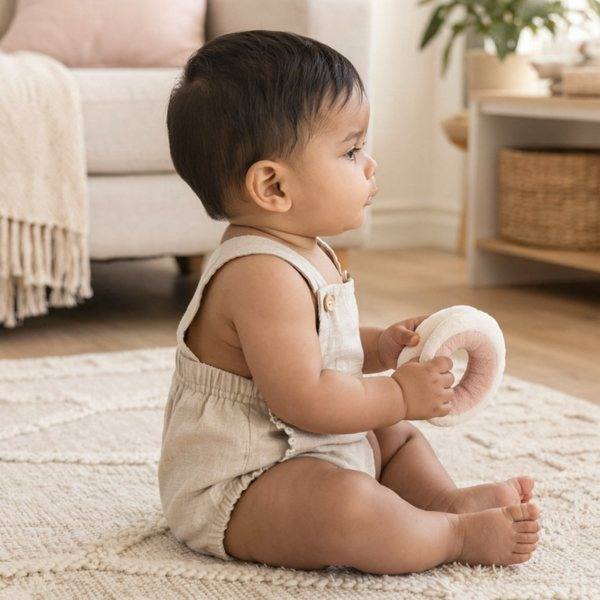
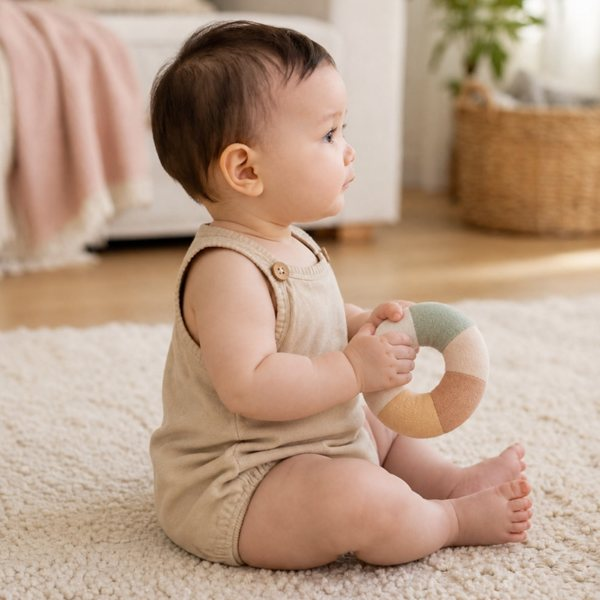
Health: checkups path as a checklist under the top card; Outings CTA names the photo; Get ready lead leads into the steps
Claude-Session: https://claude.ai/code/session_01SSLJSGHvmyaR94FKJG8VcB

diff --git a/js/hub-categories.js b/js/hub-categories.js
@@ -367,12 +367,14 @@
     const HEALTH_ART = "<svg viewBox=\"0 0 300 103\" aria-hidden=\"true\"><ellipse cx=\"146\" cy=\"90\" rx=\"107\" ry=\"7\" fill=\"#d5e5d6\"/><rect x=\"31\" y=\"63\" width=\"229\" height=\"23\" rx=\"11\" fill=\"#bed5c1\"/><circle cx=\"95\" cy=\"45\" r=\"26\" fill=\"#e8b89f\"/><path d=\"M78 40q7-21 29-15\" fill=\"none\" stroke=\"#9d735f\" stroke-width=\"5\" stroke-linecap=\"round\"/><path d=\"M85 48q4 4 8 0m7 0q4 4 8 0\" stroke=\"#916959\" stroke-width=\"2\" fill=\"none\"/><path d=\"M123 65q31-27 74 0l13 13h-92z\" fill=\"#a9c9ae\"/><path d=\"M148 66q24-19 49-26\" fill=\"none\" stroke=\"#e8b89f\" stroke-width=\"11\" stroke-linecap=\"round\"/><circle cx=\"202\" cy=\"40\" r=\"7\" fill=\"#e8b89f\"/><rect x=\"246\" y=\"15\" width=\"19\" height=\"29\" rx=\"4\" fill=\"#fafdf9\" stroke=\"#a0bda5\"/><path d=\"M256 22v15m-7-7h14\" stroke=\"#89b093\" stroke-width=\"3\" stroke-linecap=\"round\"/><path d=\"M277 48h15M285 40v16\" stroke=\"#9ebeaa\" stroke-width=\"2.5\" stroke-linecap=\"round\"/></svg>";
     let b = `<style>#main .hl-art{display:grid;place-items:center;margin:10px 0 2px}#main .hl-art svg{width:100%;max-width:260px;height:auto}#main .hl-worth{border-radius:20px;background:#eef0f7;padding:14px 16px;margin:0 0 14px;color:#3e4766}#main .hl-worth small{display:block;font-size:11px;font-weight:800;letter-spacing:.08em;text-transform:uppercase;color:#5e6890;margin-bottom:5px}#main .hl-worth b{display:block;font-size:16px;line-height:1.3;color:var(--ink,#302d3c)}#main .hl-worth p{margin:5px 0 0;font-size:14px;line-height:1.45;color:#5d6276}</style>`
       + h.hero({ eyebrow: eyebrow2, title, lead: LEAD(age) }).replace(/<\/header>\s*$/, SHOW && window.healthMainPhoto ? `${window.healthMainPhoto(age)}</header>` : `<div class="hl-art">${HEALTH_ART}</div></header>`)
+      // Nov 22 (Yarden's inspiration): the year's checkups sit right under the top card, with no heading.
+      + (SHOW && window.healthTracker ? window.healthTracker(age, focus).replace(/^<h2[^>]*>.*?<\/h2>/, '').replace('h2-track"', 'h2-track is-top"') : '')
       + (WORTH && !done ? `<section class="hl-worth"><small>${F('Worth knowing before you go')}</small><b>${F(WORTH[0])}</b><p>${F(WORTH[1])}</p></section>` : '')
       // Nov 14 (Yarden): parents look for a way to tick a checkup off. One quiet link once it's close or past, never a question.
       + (live() && !done && age <= focus && dueDays <= 3 ? `<div class="hub-browse hl-done-link"><button class="hub-link" onclick="hubVisitYes(${age})">${F('Been to this checkup? Mark it done')} ›</button></div>` : '');
     // "Booked for later? Save the date" is gone (Nov 10): Health moves on by age, so a saved date isn't needed.
     // The banner at the top already has "Back to your next checkup", so it isn't repeated here.
-    if (SHOW && window.healthGlance) b += window.healthGlance(age) + window.healthTracker(age, focus);
+    if (SHOW && window.healthGlance) b += window.healthGlance(age);
     else b += h.list('Your visit, at a glance', [
       h.row({ icon: 'clock', cat: 'Health', title: 'What to expect', sub: EXPECT[age], onclick: `openHealthDetail(${age},'expect')` }),
       `<span id="health-vaccines"></span>` + h.row({ icon: 'shield', cat: 'Health', title: 'Vaccines', sub: age === 0 ? 'Hepatitis B, and protection against RSV, a common winter virus' : ({ 1: 'Second hepatitis B shot (some offices give it at 2 months instead)', 2: 'The first main round: whooping cough, polio and more', 4: 'Second doses of the 2-month shots', 6: 'More doses of the same shots' + ([8, 9, 10, 11, 0, 1, 2].includes(NOW.getMonth()) ? ', plus {p} first flu shot' : ''), 9: 'Usually catch-up only' + ([8, 9, 10, 11, 0, 1, 2].includes(NOW.getMonth()) ? ', plus a flu shot' : ''), 12: 'Measles, mumps and rubella (MMR), chickenpox, hepatitis A and boosters' })[age] || 'What’s due at this checkup', onclick: `openHealthDetail(${age},'vaccines')` }),

diff --git a/js/out-and-about.js b/js/out-and-about.js
@@ -199,7 +199,7 @@
   function outAndAbout() {
     if (SHOW()) return home3();
     const m = ageNow(), v = stageFor(m), h = H(), n = nowFor(m), nx = nextFor(m);
-    const HERO_PH = { 0: 'town', 2: 'road', 4: 'carry-out', 6: 'highchair', 9: 'seat-infant', 12: 'seat-convertible' };
+  const HERO_PH = { 0: 'town', 2: 'road', 4: 'carry-out', 6: 'highchair', 9: 'seat-infant', 12: 'seat-convertible' };
     let b = `<header class="hub-hero oa-hero${SHOW() ? ' has-photo' : ''}">${SHOW() ? `<img class="oa-hero-img" src="${PH(HERO_PH[n[0]])}" alt="">` : ''}<p class="hub-eyebrow">${F(m < 1 ? 'In the first weeks' : `At ${m} ${m === 1 ? 'month' : 'months'}`)}</p><h1>${F(n[1])}</h1><p class="hub-lead">${F(n[2])}</p><button class="cc-hero-go oa-hero-go" onclick="${open(n[3])}">${F(n[4] ? n[4][2] : ({ errands: 'See around town', road: 'Plan a longer trip' })[n[3]] || 'See the guide')} ›</button></header>`;
     b += places(v) + seasonCard() + gear(v);
     b += h.versus('In the car', ['Every time', 'Look in the back seat before you walk away.'], ['Never', 'Leave Maya alone in the car, even for a minute.']);
@@ -477,11 +477,13 @@
   const fig3 = (src, alt, pins) => `<section class="oa-photo-card oa3-fig"><figure class="oa-photo"><img src="${PH(src)}" alt="${F(alt)}" loading="lazy">${pinsHtml(pins)}</figure></section>`;
 
   // Nov 22 (Yarden's inspiration): a real photo of this month's change in the top card, like the other guides.
+    // The button names what the photo shows (Yarden's inspiration: "See cart & store tips").
+  const HERO_CTA = { 0: 'Plan a first walk', 2: 'Plan a longer trip', 4: 'See the carrier guide', 6: 'See cart and store tips', 9: 'See which seat comes next', 12: 'See why it matters' };
   const HERO_PH = { 0: 'town', 2: 'road', 4: 'carry-out', 6: 'hero-cart', 9: 'car-head', 12: 'car-head' };
   function home3() {
     const m = ageNow(), h = H(), n = nowFor(m), nx = nextFor(m);
     Object.keys(phaseView).forEach(k => delete phaseView[k]); Object.keys(view3).forEach(k => delete view3[k]);
-    let b = `<header class="hub-hero oa-hero oa3-hero"><p class="hub-eyebrow">${F(m < 1 ? 'In the first weeks' : `At ${m} ${m === 1 ? 'month' : 'months'}`)}</p><h1>${F(n[1])}</h1><p class="hub-lead">${F(n[2])}</p>${PLACES.some(([pid]) => pid === n[3]) ? '' : `<button class="cc-hero-go oa-hero-go" onclick="${open(n[3])}">${F(n[4] ? n[4][2] : 'See the guide')} ›</button>`}${HERO_PH[n[0]] ? `<figure class="oa3-hero-photo"><img src="${PH(HERO_PH[n[0]])}" alt=""></figure>` : ''}</header>`;
+    let b = `<header class="hub-hero oa-hero oa3-hero"><p class="hub-eyebrow">${F(m < 1 ? 'In the first weeks' : `At ${m} ${m === 1 ? 'month' : 'months'}`)}</p><h1>${F(n[1])}</h1><p class="hub-lead">${F(n[2])}</p>${HERO_PH[n[0]] ? `<figure class="oa3-hero-photo"><img src="${PH(HERO_PH[n[0]])}" alt=""></figure>` : ''}<button class="cc-hero-go oa-hero-go oa3-hero-cta" onclick="${open(n[3])}">${F(HERO_CTA[n[0]] || 'See the guide')} →</button></header>`;
     // Nov 22 (Yarden's inspiration): with a photo in the top card, the places are icon tiles, so the page has one photo.
     const GLOBE = '<svg viewBox="-2 -2 28 28" aria-hidden="true"><circle cx="12" cy="12" r="8.5" fill="none" stroke="currentColor" stroke-width="1.7"/><path d="M3.5 12h17M12 3.5c2.6 2.4 3.6 5.3 3.6 8.5s-1 6.1-3.6 8.5c-2.6-2.4-3.6-5.3-3.6-8.5s1-6.1 3.6-8.5Z" fill="none" stroke="currentColor" stroke-width="1.7" stroke-linejoin="round"/></svg>';
     const WAVES = '<svg viewBox="-2 -2 28 28" aria-hidden="true"><path d="M3 10c1.5 0 1.5-1.5 3-1.5S7.5 10 9 10s1.5-1.5 3-1.5S13.5 10 15 10s1.5-1.5 3-1.5S19.5 10 21 10M3 15c1.5 0 1.5-1.5 3-1.5S7.5 15 9 15s1.5-1.5 3-1.5S13.5 15 15 15s1.5-1.5 3-1.5S19.5 15 21 15" fill="none" stroke="currentColor" stroke-width="1.7" stroke-linecap="round"/></svg>';

diff --git a/index.html b/index.html
@@ -12,10 +12,10 @@
 <link rel="stylesheet" href="css/sleep-sub-look.css">
 <link rel="stylesheet" href="css/health-look.css?v=1113e">
 <link rel="stylesheet" href="css/health-show.css?v=1119d">
-<link rel="stylesheet" href="css/health-pages-v2.css?v=1122e">
+<link rel="stylesheet" href="css/health-pages-v2.css?v=1122g">
 <link rel="stylesheet" href="css/safety-look.css?v=1118s">
 <link rel="stylesheet" href="css/photos.css?v=1121a">
-<link rel="stylesheet" href="css/outings-look.css?v=1122k">
+<link rel="stylesheet" href="css/outings-look.css?v=1122l">
 <link rel="stylesheet" href="css/childcare-look.css?v=1122b"><link rel="stylesheet" href="css/care-card.css">
 <link rel="stylesheet" href="css/care-v2.css?v=1117x">
 <link rel="stylesheet" href="css/year-ahead.css?v=1115c"><link rel="stylesheet" href="css/subpage-color.css"><style>#main .you-avatar.has-photo{overflow:hidden;padding:0}#main .you-avatar.has-photo img{width:100%;height:100%;object-fit:cover;display:block}</style><link rel="stylesheet" href="css/stages-nav.css?v=1121m"><link rel="stylesheet" href="css/home-cards.css"><link rel="stylesheet" href="css/home-glance.css?v=1117g"><link rel="stylesheet" href="css/one-app.css"><link rel="stylesheet" href="css/month-story.css"><link rel="stylesheet" href="css/guides-v2.css?v=1"><link rel="stylesheet" href="css/home-card-clean.css?v=1121d"><link rel="stylesheet" href="css/dev-photo.css?v=39"></head>
@@ -33,11 +33,11 @@
 <script src="js/welcome.js"></script>
 <script src="js/hub-art.js?v=1117q"></script>
 <script src="js/hub.js?v=1121m"></script>
-<script src="js/hub-categories.js?v=1122h"></script>
+<script src="js/hub-categories.js?v=1122i"></script>
   <script src="js/hub-pages.js?v=1121m"></script>
 <script src="js/stage-timeline.js?v=1113e"></script>
-<script src="js/out-and-about.js?v=1122j"></script>
-<script src="js/care-card-render.js"></script><script src="js/childcare.js?v=1122c"></script>
+<script src="js/out-and-about.js?v=1122l"></script>
+<script src="js/care-card-render.js"></script><script src="js/childcare.js?v=1122d"></script>
 <script src="js/dev-play-art.js"></script>
 <script src="js/dev-scenes.js?v=1113e"></script>
 <script src="js/dev-play.js?v=1120a"></script>
@@ -50,7 +50,7 @@
 <script src="js/health-look.js"></script>
 <script src="js/health-visit-pages.js?v=1119t"></script>
 <script src="js/health-show.js?v=1119c"></script>
-<script src="js/health-pages-v2.js?v=1122f"></script>
+<script src="js/health-pages-v2.js?v=1122g"></script>
 <script src="js/sub-look.js?v=1113e"></script>
 <script src="js/safety-look.js"></script>
 <script src="js/safety-v2.js?v=1118s"></script>

diff --git a/js/childcare.js b/js/childcare.js
@@ -387,7 +387,7 @@
   const CC_STAGES = [
     { label: 'Finding care', age: 'Months before', one: 'Kinds of care, costs and when to start looking', eyebrow: 'Finding care', t: 'Explore your options', lead: 'Infant spots go fast, so it helps to start early. Here’s what each kind of care looks like.',
       worth: ['Worth knowing before you look', 'The best tour question isn’t about activities.', 'Ask how they handle crying and naps, and who covers when someone’s out.'] },
-    { label: 'Care chosen', age: 'Weeks before', one: 'Getting ready for day one, and a backup plan', eyebrow: 'Care chosen', t: 'Make day one familiar', lead: 'Help your caregiver learn Maya’s little routines before the first real goodbye.',
+    { label: 'Care chosen', age: 'Weeks before', one: 'Getting ready for day one, and a backup plan', eyebrow: 'Care chosen', t: 'Make day one familiar', lead: 'Ease in over a week or two, so the first real goodbye isn’t the first time.',
       worth: ['Worth knowing before day one', 'A practice day helps more than a perfect schedule.', 'Visit together first, then let the caregiver take the lead while you’re nearby.'] },
     { label: 'Care started', age: 'Once care starts', one: 'Settling in, each day, and when to speak up', eyebrow: 'Care started', t: 'How is care going?', lead: 'What happens after goodbye matters more than the goodbye itself.',
       worth: ['Worth knowing now', 'Tears at drop-off don’t tell the whole story.', 'Many babies protest the goodbye, then settle. Ask how {s} did after you left.'] }

diff --git a/js/health-pages-v2.js b/js/health-pages-v2.js
@@ -87,9 +87,11 @@
     const days = Math.round((due(focus) - NOW) / 864e5);
     const when = days > 1 ? `in ${days < 14 ? days + ' days' : Math.round(days / 7) + ' weeks'}` : days >= -14 ? 'now' : '';
     const nodes = WELL_VISITS.map(a => {
-      const cls = [a === age ? 'is-on' : '', done(a) ? 'is-done' : '', isLive && a === focus ? 'is-next' : '', isLive && a < focus && !done(a) ? 'is-past' : ''].filter(Boolean).join(' ');
+      // Nov 22 (Yarden: "a checklist of where you are"): checkups behind her by age are ticked, the one you're reading is ringed.
+      const behind = done(a) || (isLive && a < focus);
+      const cls = [a === age ? 'is-on' : '', behind ? 'is-done' : '', isLive && a === focus ? 'is-next' : ''].filter(Boolean).join(' ');
       const sub = '';   // Nov 22: the inspiration's path: no sublabels, the top card gives the date
-      return `<button class="h2-node ${cls}" onclick="openPage('health-visit:${a}')"${a === age ? ' aria-current="page"' : ''}><i>${done(a) ? CHECK : a === age ? '<span></span>' : ''}</i><b>${SHORT[a]}</b></button>`;
+      return `<button class="h2-node ${cls}" onclick="openPage('health-visit:${a}')"${a === age ? ' aria-current="page"' : ''}><i>${(done(a) || (isLive && a < focus)) && a !== age ? CHECK : a === age ? '<span></span>' : CHECK}</i><b>${SHORT[a]}</b></button>`;
     }).join('');
     return h2('Your checkups this year') + `<section class="hub-card h2-track"><div class="h2-track-line">${nodes}</div><i class="st-chip" hidden></i></section>`;
   };

diff --git a/css/health-pages-v2.css b/css/health-pages-v2.css
@@ -172,3 +172,8 @@
 #main .h2-talk-row>div{display:flex;flex-direction:column;align-items:center;text-align:center;gap:6px}
 #main .h2-talk-row b{font-size:13px;line-height:1.25;color:var(--h2-ink)}
 #main .h2-talk-row small{font-size:12px;line-height:1.3;color:var(--h2-sub);margin-top:-3px}
+/* Nov 22: up top, the path sits on the page with no container, like Yarden's inspiration */
+#main .h2-track.is-top{background:none;border:0;box-shadow:none;padding:6px 2px 4px;margin:0 0 18px}
+#main .h2-track.is-top .h2-node i{color:#cfe3d6}
+#main .h2-track.is-top .h2-node.is-done i{color:#fff}
+#main .h2-track.is-top .h2-node:not(.is-done):not(.is-on) i svg{opacity:.9}

diff --git a/css/outings-look.css b/css/outings-look.css
@@ -265,3 +265,4 @@
 #main .oa3-place-ic>*,#main .oa3-place-ic svg{width:32px!important;height:32px!important}
 #main .oa3-places.is-icons .oa3-place .oa3-place-ic svg{width:30px!important;height:30px!important;max-width:none!important}
 #main .oa3-places.is-icons .oa3-place .oa3-place-ic{padding:0;justify-content:center}
+#main .oa3-hero .oa3-hero-cta{margin-top:14px}
